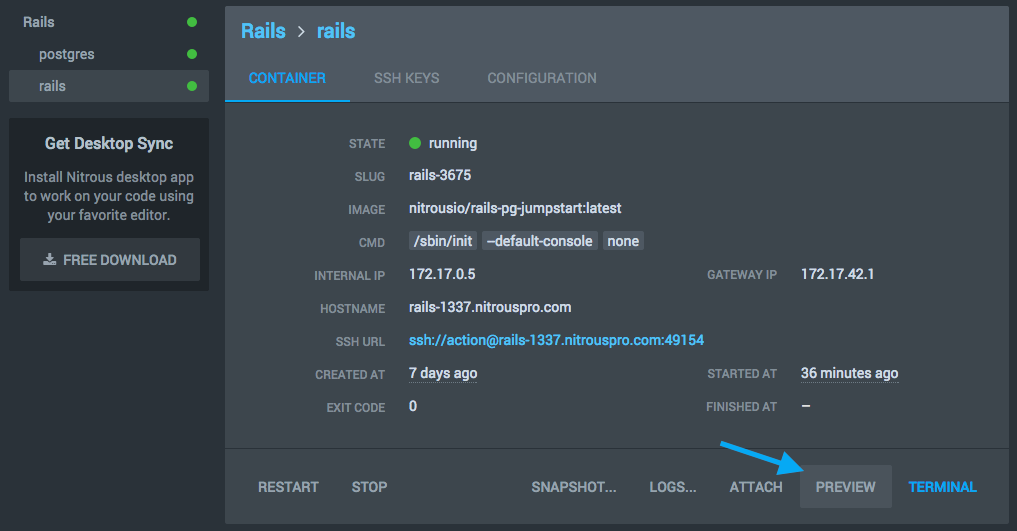
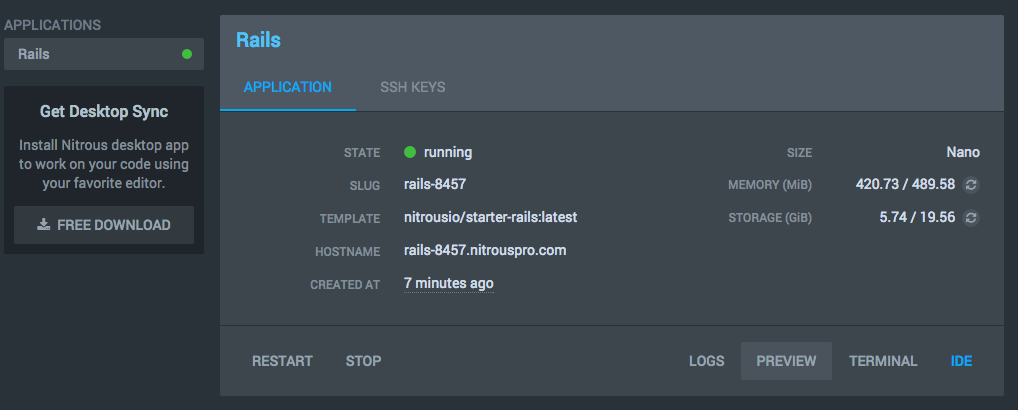
Updated Preview Guide

diff --git a/_posts/2014-11-25-preview.md b/_posts/2014-11-25-preview.md
@@ -7,46 +7,30 @@ category: tutorials
 
 # Previewing Your Application
 
-<p class="intro">Each container is provided with a HOSTNAME which can be used to preview your app within the web browser. If the app is
-running on a specific port, append this to the end of the hostname URL for previewing.</p>
+<p class="intro">Nitrous offers the ability to preview your app on a publicly availble URL which you can share with anyone.</p>
 
-## Locating Your Preview URL
+## From the Web IDE
 
-To view your preview URL, open your [Nitrous Dashboard](https://pro.nitrous.io/app/#/) and locate the **HOSTNAME** field
-within your application configuration.
+To preview your app, navigate to **Preview > Port 3000** within the menu bar.
 
-![Hostname]({{site.baseurl}}/images/articles/preview/hostname.png)
+![Preview Port 3000]({{site.baseurl}}/images/articles/preview/preview-port-3000.png)
 
-In the example above, the hostname is `rails-1337.nitrouspro.com`. Paste this URL into your address bar along with a port number to view your app once running.
+>If your app isn't configured to run automatically then you will need to run the app within the console before previewing. Cd into the project directory and run your app on 0.0.0.0:3000 (or another port of your choice) in order to preview.
 
-## Previewing Your App
+## From the Dashboard
 
-Before previewing your app you will need to ensure the app is running. Within the app terminal, cd into the project
-directory and run the command needed to run the app. You will want to ensure your app's host is configured for
-0.0.0.0.
-
-In this example we will run a Rails app:
-
-    action@rails-3675:~/workspace/app$ rails server
-    => Booting WEBrick
-    => Rails 4.1.7 application starting in development on http://0.0.0.0:3000
-
-Once the app is running there are 2 ways to preview the app.
-
-1. Within the container settings, navigate to the container settings and click **Preview**. This option is only
-   available if your container has a preview port configured.
+You can quickly preview your app by opening the [Nitrous Dashboard](https://pro.nitrous.io/app/#/) and from there clicking the **Preview** link.
 
 ![Preview]({{site.baseurl}}/images/articles/preview/preview.png)
-
-2. Past your preview URL along with your port into your web browser to view the app. Following the example above, the URL will be `http://rails-1337.nitrouspro.com:3000`.
 
 ## Configuring Your Preview Port
 
 In order to utilize the **Preview** links you will need to utilize a Starter Template or configure your
 container manually. To configure a container's preview port, navigate in the menu to **Account > Account Settings** and enable **Show Advanced Options**.
 
-Navigate to your container settings and click the **Configuration** tab. In order to configure your app to run on port 80, add a new port binding with the host port of 80, and set the
-container port to the port it initially runs on.
+Navigate to your container settings and click the **Configuration** tab. Here you will be able to configure your app to run on any port, which in this example we will configure it for port 80.
+
+Add a new port binding with the host port of 80, and set the container port to the port which the app is configured to utilize.
 
 >Note: If there was a port binding previously set for the same port your app
 runs on then you will need to remove it.
@@ -71,9 +55,7 @@ To get started, navigate to your project folder within the terminal and run `pyt
 
 If everything runs smoothly then you will see the output "Serving HTTP on 0.0.0.0 port 3000 ...".
 
-View the HTML page by clicking your container's preview link which you configured earlier, or paste the hostname URL into your web browser (e.g. `http://your_host_name.nitrouspro.com:3000`).
-
-Click the file within the directory listing which you wish to view. Any referenced CSS/JavaScript will be loaded.
+Navigate to **Preview > Port 3000** within the menu bar to view the static content. Click the file within the directory listing which you wish to view. Any referenced CSS/JavaScript will be loaded.
 
 ![Preview Static Page]({{site.baseurl}}/images/articles/preview/preview-static-page.png)
 

diff --git a/_posts/2014-11-11-getting-started.md b/_posts/2014-11-11-getting-started.md
@@ -25,7 +25,7 @@ The quickest way to start coding is to connect to the Web IDE.
 
 After creating a box template, click the **IDE** link found in the bottom right of your dashboard.
 
-![Starter Template]({{site.baseurl}}/images/articles/getting-started/open-ide.png)
+![Open IDE]({{site.baseurl}}/images/articles/getting-started/open-ide.png)
 
 Within the IDE you will see a file browser, text editor, and a console. Your development environment will come with a `~/workspace` folder which you can start developing within instantly.
 

diff --git a/index.md b/index.md
@@ -23,7 +23,7 @@ The quickest way to start coding is to connect to the Web IDE.
 
 After creating a box template, click the **IDE** link found in the bottom right of your dashboard.
 
-![Starter Template]({{site.baseurl}}/images/articles/getting-started/open-ide.png)
+![Open IDE]({{site.baseurl}}/images/articles/getting-started/open-ide.png)
 
 Within the IDE you will see a file browser, text editor, and a console. Your development environment will come with a `~/workspace` folder which you can start developing within instantly.
 
